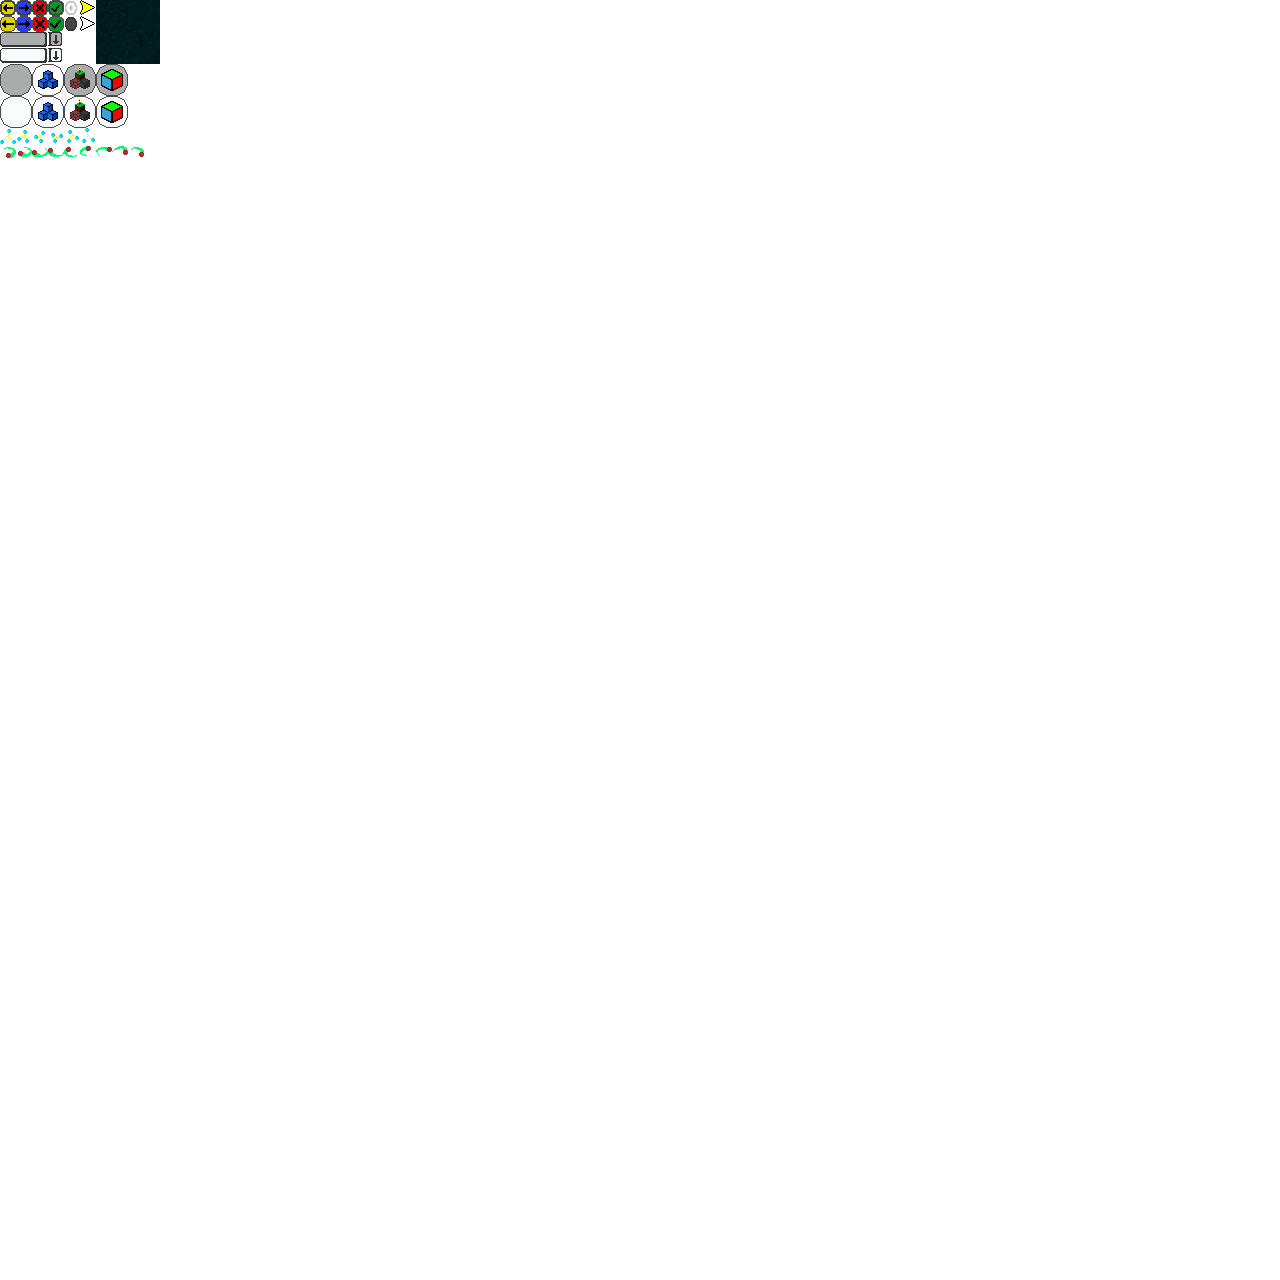
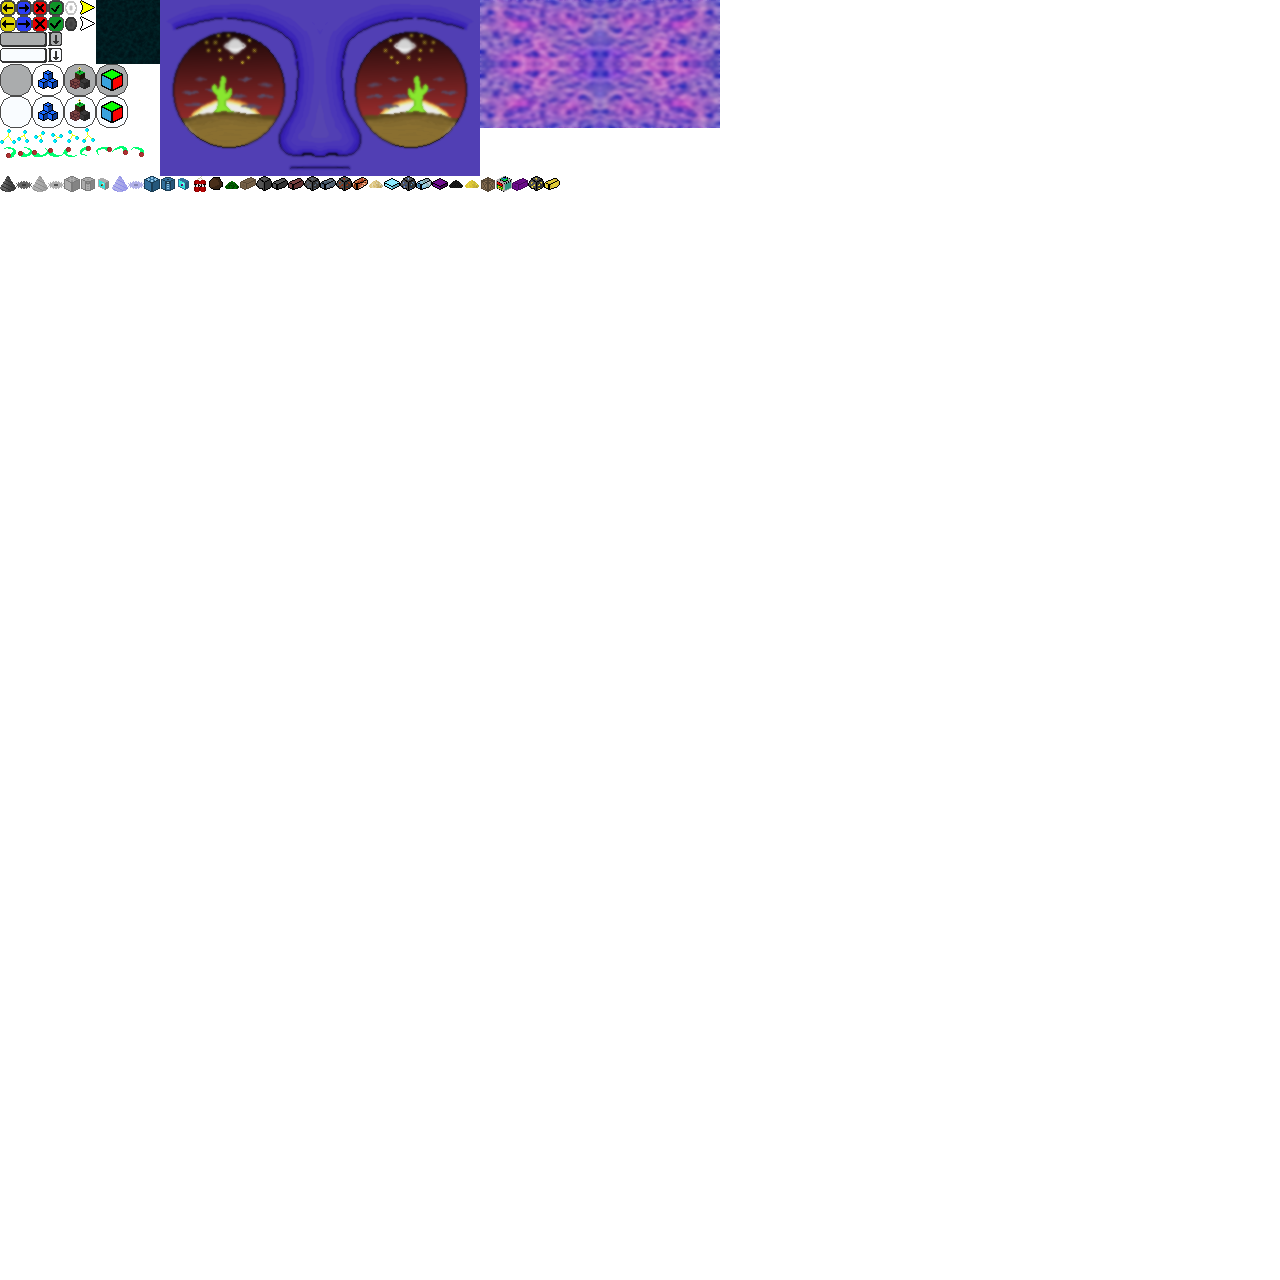
Menu Work
+ White text
+ Backgrounds to menus
+ Function to get uv of viewport

Changed region(s): [[0.0, 0.0, 0.5625, 0.1562]]

diff --git a/src/main.rs b/src/main.rs
@@ -3,7 +3,9 @@ mod game_data;
 use std::task::Context;
 
 use game_data::GameData;
-use miniquad::*;
+use image::EncodableLayout;
+use image::imageops::FilterType;
+use miniquad::{conf::Icon, *};
 
 
 struct GameStage {
@@ -13,19 +15,6 @@ struct GameStage {
 
 const VIRTUAL_SIZE: f32 = 1080.0;
 
-fn calculate_viewport(screen_width: f32, screen_height: f32) -> (f32, f32, f32, f32) {
-    if screen_width > screen_height {
-        // Wider screen - make viewport taller to fill width, crop top/bottom
-        let viewport_size = screen_width;
-        let offset_y = -(viewport_size - screen_height) / 2.0;
-        (0.0, offset_y, viewport_size, viewport_size)
-    } else {
-        // Taller screen - make viewport wider to fill height, crop left/right
-        let viewport_size = screen_height;
-        let offset_x = -(viewport_size - screen_width) / 2.0;
-        (offset_x, 0.0, viewport_size, viewport_size)
-    }
-}
 
 impl GameStage {
     pub fn new() -> GameStage {
@@ -37,23 +26,6 @@ impl GameStage {
         let mut game_data = GameData::new();
         game_data.init_textures(&mut ctx);
         game_data.init_screen_manager(&mut ctx);
-
-
-
-        
-        /*
-        let (viewport_x, viewport_y, viewport_width, viewport_height) = 
-        calculate_viewport(1920.0, 1080.0);
-
-        // Set the viewport (tells GPU where to render)
-        ctx.apply_viewport(
-            viewport_x as i32, 
-            viewport_y as i32, 
-            viewport_width as i32, 
-            viewport_height as i32
-        );
-        */
-
 
         GameStage {
             ctx: ctx,
@@ -98,13 +70,40 @@ impl EventHandler for GameStage {
 
 }
 
+pub fn get_icon() -> Option<Icon> {
+    let icon_bytes = include_bytes!("../Assets/game_icon.png");
+    let img = image::load_from_memory(icon_bytes).unwrap().to_rgba8();
+    
+    // Create correctly-sized icons by resizing the source image to 16x16, 32x32 and 64x64
+    let small_img = image::imageops::resize(&img, 16, 16, FilterType::Lanczos3);
+    let medium_img = image::imageops::resize(&img, 32, 32, FilterType::Lanczos3);
+    let big_img = image::imageops::resize(&img, 64, 64, FilterType::Lanczos3);
+
+    let small_bytes = small_img.as_bytes();
+    let medium_bytes = medium_img.as_bytes();
+    let big_bytes = big_img.as_bytes();
+
+    // Fixed-size arrays: 16*16*4 = 1024, 32*32*4 = 4096, 64*64*4 = 16384
+    let mut small = [0u8; 16 * 16 * 4];
+    let mut medium = [0u8; 32 * 32 * 4];
+    let mut big = [0u8; 64 * 64 * 4];
+
+    small.copy_from_slice(small_bytes);
+    medium.copy_from_slice(medium_bytes);
+    big.copy_from_slice(big_bytes);
+
+    return Some(Icon { small, medium, big });
+}
+
 fn main() {
+    
     miniquad::start(
         conf::Conf {
-            window_title: "My Game".to_owned(),
+            window_title: "Edifice V3".to_owned(),
             window_width: 1920,
             window_height: 1080,
             window_resizable: false,
+            icon: get_icon(),
             ..Default::default()
         },
         || Box::new(GameStage::new()), // No parameters

diff --git a/src/game_data/types/ui.rs b/src/game_data/types/ui.rs
@@ -38,6 +38,9 @@ pub enum UITextures {
 
     // Backgrounds
     VoidBackground = 20,
+    FaceBackground = 21,
+    MirrorBackground = 22,
+
 }
 
 impl UITextures {
@@ -48,7 +51,7 @@ impl UITextures {
 
     /// Get the total number of UI elements
     pub fn get_total_UI_elements() -> u32 {
-        UITextures::VoidBackground.get_id() + 1 // ButtonCircle_Down is the last element at index 19, so total is 20
+        UITextures::MirrorBackground.get_id() + 1 // ButtonCircle_Down is the last element at index 19, so total is 20
     }
 
     /// Get the pressed (down) variant of this button
@@ -94,6 +97,8 @@ impl UITextures {
             18 => Some(UITextures::ButtonCircle),
             19 => Some(UITextures::ButtonCircle_Down),
             20 => Some(UITextures::VoidBackground),
+            21 => Some(UITextures::FaceBackground),
+            22 => Some(UITextures::MirrorBackground),
             _ => None,
         }
     }
@@ -129,7 +134,9 @@ impl UITextures {
             UITextures::ButtonCircle => [96, 0, 32, 32],
             UITextures::ButtonCircle_Down => [96, 32, 32, 32],
 
-            UITextures::VoidBackground => [96, 0, 64, 64]
+            UITextures::VoidBackground => [96, 0, 64, 64],
+            UITextures::FaceBackground => [160, 0, 320, 176],
+            UITextures::MirrorBackground => [480, 0, 240, 128],
         }
     }
 

diff --git a/src/game_data/screen/main_menu_world_creation/world_creation.rs b/src/game_data/screen/main_menu_world_creation/world_creation.rs
@@ -1,6 +1,6 @@
 use miniquad::MouseButton;
 
-use crate::game_data::{screen::{Button, ScreenData, render_centered_string_at_ndi_cords, render_string, ui_manager::BarButton, world_config::WorldConfig}, types::UITextures};
+use crate::game_data::{TextureManager, screen::{Button, ScreenData, render_centered_string_at_ndi_cords, render_string, ui_manager::BarButton, world_config::WorldConfig}, types::UITextures};
 
 pub struct WorldCreationMenu {
     
@@ -40,7 +40,10 @@ impl WorldCreationMenu {
         }
     }
 
-    pub fn render(&mut self, texture_manager: &mut crate::game_data::TextureManager) {
+    pub fn render(&mut self, texture_manager: &mut TextureManager, screen_data: &ScreenData) {
+        // Render background
+        texture_manager.render_ui_element_with_pos(UITextures::MirrorBackground, screen_data.get_viewport_uv());
+        
         // Render create world button
         self.create_world_button.render_button(texture_manager);
 

diff --git a/src/game_data/screen/main_menu/main_menu.rs b/src/game_data/screen/main_menu/main_menu.rs
@@ -2,7 +2,7 @@ use std::process::id;
 
 use miniquad::MouseButton;
 
-use crate::game_data::{World, screen::{Button, ScreenData, screen_data::CurrentMenu, ui_manager::BarButton}};
+use crate::game_data::{World, screen::{Button, ScreenData, screen_data::CurrentMenu, ui_manager::BarButton}, types::UITextures};
 
 
 pub struct MainMenu {
@@ -54,7 +54,11 @@ impl MainMenu {
         }
     }
 
-    pub fn render_main_menu(&mut self, texture_manager: &mut crate::game_data::TextureManager) {
+    pub fn render_main_menu(&mut self, texture_manager: &mut crate::game_data::TextureManager, screen_data: &ScreenData) {
+        // Render background
+        texture_manager.render_ui_element_with_pos(UITextures::FaceBackground, screen_data.get_viewport_uv());
+        
+
         // Render all buttons
         self.start_button.render_button(texture_manager);
         self.options_button.render_button(texture_manager);

diff --git a/src/game_data/screen/screen_mananager.rs b/src/game_data/screen/screen_mananager.rs
@@ -69,10 +69,10 @@ impl ScreenManager {
         
         // If current menu is camera
         if self.screen_data.get_current_menu() == CurrentMenu::MainMenu {
-            self.main_menu.render_main_menu(texture_manager);
+            self.main_menu.render_main_menu(texture_manager, &self.screen_data);
         }
         if self.screen_data.get_current_menu() == CurrentMenu::MainMenuWorldCreation {
-            self.main_menu_world_creation.render(texture_manager);
+            self.main_menu_world_creation.render(texture_manager, &self.screen_data);
         }
         else if self.screen_data.get_current_menu() == CurrentMenu::Camera {
             // Generate the world if not yet initilized

diff --git a/src/game_data/screen/screen_data.rs b/src/game_data/screen/screen_data.rs
@@ -108,6 +108,13 @@ impl ScreenData {
         );
     }
 
+    pub fn get_viewport_uv(&self) -> [f32; 4] {
+        let starting_cords = self.pixel_cords_to_ndc_cords([0.0, 0.0]);
+        let ending_cords = self.pixel_cords_to_ndc_cords(self.get_screen_rez());
+
+        return [starting_cords[0], starting_cords[1], ending_cords[0], ending_cords[1]];
+    }
+
     pub fn pixel_cords_to_ndc_cords(&self, pixel_cords: [f32; 2]) -> [f32; 2] {
         let centered_pixel_cords = [
             pixel_cords[0] - (self.screen_rez[0] / 2.0),

diff --git a/src/game_data/screen/renderer/camera.rs b/src/game_data/screen/renderer/camera.rs
@@ -237,7 +237,7 @@ impl Camera {
 
     pub fn render_camera(&mut self, texture_manager : &mut TextureManager, world : Arc<RwLock<World>>, ctx: &mut GlContext) {
         // Render background
-        texture_manager.ender_ui_element_with_pos(UITextures::VoidBackground, [-1.0, -1.0, 1.0, 1.0]);
+        texture_manager.render_ui_element_with_pos(UITextures::VoidBackground, [-1.0, -1.0, 1.0, 1.0]);
         texture_manager.get_texture_renderer().flush(ctx);
 
         // Update values

diff --git a/src/game_data/texture_manager/texture_manager.rs b/src/game_data/texture_manager/texture_manager.rs
@@ -141,7 +141,7 @@ impl TextureManager {
         self.get_texture_renderer().add_quad(pos, uv);
     }
 
-    pub fn ender_ui_element_with_pos(&mut self, ui_texture: UITextures, pos: [f32; 4]) {
+    pub fn render_ui_element_with_pos(&mut self, ui_texture: UITextures, pos: [f32; 4]) {
         let uv = self.texture_atlas.as_ref().unwrap().get_precalculated_ui_uv(ui_texture);
 
         self.get_texture_renderer().add_quad(pos, uv);
